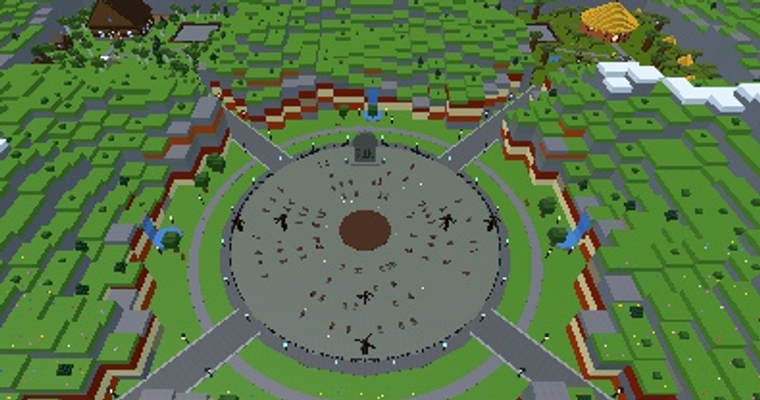
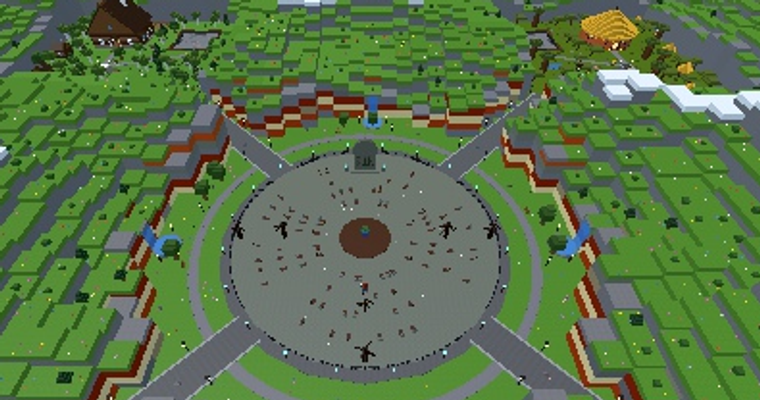
Превью локаций из запущенной игры; База фракций перенесена на X = -1050 (горы залезали в тюрьму)

diff --git a/docs/PROGRESS.md b/docs/PROGRESS.md
@@ -51,6 +51,7 @@
 
 ## Журнал
 
+- **2026-10-22, сессия 9z2 (Claude) — превью из запущенной игры, База фракций сдвинута.** [владелец: «скрины делай, когда игра запущена — там освещение»] Превью спавна, каменоломни и базы сняты в режиме игры (игровой свет, настоящие блоки в шахтах), обрезаны без неба и кнопок Roblox. Найдено при съёмке: внешние горы Базы фракций (центр X = −700) доходили до X = −144 и залезали в западную часть тюрьмы (стена на −202) — база перенесена на X = −1050 и пересобрана.
 - **2026-10-22, сессия 9z (Claude) — PvP-награда, превью при телепорте, новые превью.** [владелец] (1) За убийство игрока убийца получает столько $, какой уровень у убитого, и эти деньги снимаются с убитого (не больше, чем у него есть); тосты обоим. Не проверено (в Studio один игрок). (2) При телепорте — карточка с превью места, названием и отсчётом (вписывается в экран телефона); в углу превью красная плашка «PVP» у PvP-локаций (и в меню локаций). Проверено: карточка с плашкой при телепорте на Базу фракций. (3) Превью: вид с высоты под углом, без чужих локаций и без неба — спавн, каменоломня (без свода), база фракций; `scripts/preview-shot.luau` готовит сцену, `scripts/crop-preview.cjs` режет без неба. Старые картинки-превью других шахт удалены (там рисуется схема из блоков, пока нет их карт).
 - **2026-10-22, сессия 9y (Claude) — деньги за крыс видны, ник «lvl 5».** [владелец: «крысы не приносят денег»] Деньги начислялись (проверено ударами: «Крыса убита: +0.500 $»), но панель «Баланс» показывала целые доллары — 0,5 $ выглядело как 0. Теперь баланс в формате оригинала («0.500 $»). Ник над игроком: «lvl 5 Ник» вместо «L5» [владелец]. Проверено в Studio: баланс 0.500 $ после крысы, табличка «lvl 5 coco_shamill».
 - **2026-10-22, сессия 9x (Claude) — База фракций: правки владельца, крысы, ник.** [владелец] (1) Мерцание: у троп, колец, дорожек, спавнов, ковров, татами — свои высоты, соседние отрезки кольца чередуются по высоте; у пирамиды стены не накладываются в углах, пояса чуть ниже граней, ступени и потолок сдвинуты, у пагоды решётки и золотой пояс не совпадают гранями. (2) Свет в залах мягче: Ambient (105,100,96), экспозиция −0,1, лампы слабее, свечи и фонари Азиатов не светятся неоном. (3) Зомбарь: урон ×2 (удар 0,8, способности 1,6). (4) Награда боссов по меню: «0–350 $» / «0–650 $» — доля банка по урону, последний удар +20 %, но не больше банка (одиночное убийство давало 420 при 350); правила наград нашлись в сессии «Roblox Prison game setup» [клиент]: доля по урону, +20 % за последний удар, нужно быть на локации, рейтинг урона после боя — так и было сделано. (5) Крысы (MobService): по 3 на каждой тропе и 8 вокруг площади босса; 20 HP, укус 2, бродят у точки, бегут к игроку ближе 18, дальше 30 — домой; убийце 0,5 $ (× прокачка «Мобы»), счётчик крыс, опыт Мастера клинка; возрождение через 2 минуты [владелец]. Проверено: 20 крыс, крыса кусает (20 → 16 HP за 4 с). (6) Ник над игроком: «L5 Ник», уровень цветом фракции (без фракции — белый) [владелец; сеть 2019]. Проверено: «L5» коричневым у Латиносов. База — PvP-зона (pvp=true), свои по фракции не бьют. Не проверено: награда за крысу и возрождение (Studio отключился), мерцание на глаз.

diff --git a/CLAUDE.md b/CLAUDE.md
@@ -85,8 +85,8 @@ Do not read `wiki/` wholesale (≈ 60 MB, 500 files). Grep, then read the matchi
    all 4 locales; a new book needs `books.catalog` + `effects` + `book_<id>` / `book_desc_<id>`. The
    server warns `[ItemInfo] missing translations` in Studio when something is missing.
    Каменоломня: `scripts/build-quarry.luau` (Edit, after build-textures; Workspace.Quarry at X = 700, all in one cave).
-   Location previews [владелец 22.10]: always an ELEVATED THREE-QUARTER photo of the built location, as if standing in the air (Studio screen_capture; `scripts/preview-shot.luau` hides the other locations, roofs and fills the mine pits — set ServerStorage.PreviewMode, run, capture close enough that the location fills the frame, then PreviewMode = "restore"), cropped with no sky by `scripts/crop-preview.cjs` → assets/previews/topdown-<id>.png → upload_image → assets/previews/ids.json.
-   База фракций: `scripts/build-fraction-base.luau` (Edit, after build-textures and build-prison; Workspace.FactionBase at X = −700: 4 valleys in mountains, trails to the Зомбарь square). Boss template: `scripts/build-boss-zombie.luau` (ServerStorage.BossTemplates.giant_zombie). New block textures: `scripts/split-faction-sheet.mjs`.
+   Location previews [владелец 22.10]: always an ELEVATED THREE-QUARTER photo of the built location, as if standing in the air, taken IN PLAY MODE (game lighting, real mine blocks): server anchors the character over the location and RequestStreamAroundAsync over it; client turns the ScreenGuis/CoreGui off, hides roofs locally (quarry cave), holds a Scriptable camera with BindToRenderStep; screen_capture; frame close so the location fills the shot; crop with no sky/Roblox buttons by `scripts/crop-preview.cjs` → assets/previews/topdown-<id>.png → upload_image → assets/previews/ids.json. (`scripts/preview-shot.luau` is the Edit-mode fallback.)
+   База фракций: `scripts/build-fraction-base.luau` (Edit, after build-textures and build-prison; Workspace.FactionBase at X = −1050: 4 valleys in mountains, trails to the Зомбарь square). Boss template: `scripts/build-boss-zombie.luau` (ServerStorage.BossTemplates.giant_zombie). New block textures: `scripts/split-faction-sheet.mjs`.
    Boss looks: ServerStorage.BossTemplates.<template> (mesh golem split into Head/Torso/LeftArm/RightArm/LeftLeg/
    RightLeg; lives only in the place file) is rigged in code; `src/client/BossAnimator.luau` poses it from the
    Action attributes. Player swing = our keyframes (`src/shared/SwingAnimations.luau`) played by
